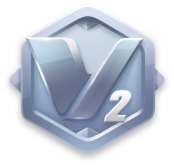
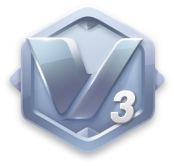
fix: 修复服务器信息显示和VIP等级图片逻辑
修复产品中心、首页和服务器页面中服务器信息的显示问题，统一使用serverInfo对象中的字段
修正VIP等级图片显示逻辑，使用nextVipLevel代替vipLevel
优化算力服务器数据获取逻辑，提取为单独函数
移除服务器页面中冗余的显示字段和间距

Changed region(s): [[0.6034, 0.5422, 0.8046, 0.753]]

diff --git a/src/pages/server/index.vue b/src/pages/server/index.vue
@@ -226,12 +226,8 @@ function changeDynamicIncome(e) {
         </view>
 
         <view class="mt-[5px] text-[12px] text-[#94999A]">
-          算力值 {{ item.dynamicMax * item.powerRate }}
-          <span class="text-[#f7ca54]">({{ item.dynamicMax }} KDK)</span>
+          算力值 {{ item.fixedPower }}
         </view>
-        <!-- <view class="mt-[5px] text-[12px] text-[#94999A]">
-          收利率 {{ item.priceRate * 100 }}%
-        </view> -->
         <view class="mt-[5px]">
           <view class="mr-[8px] text-[12px] text-[#D73A3C] font-bold">
             <div class="">
@@ -320,7 +316,7 @@ function changeDynamicIncome(e) {
             {{ currentItem.serverName }}
           </view>
           <div class="mt-[10px] flex items-center justify-center">
-            <view class="mr-[10px] mt-[5px] w-1/2 text-[12px] text-[#94999A]">
+            <view class="mt-[5px] w-1/2 text-[12px] text-[#94999A]">
               购买下限 {{ currentItem.dynamicMin }} (KDK)
             </view>
             <view class="mt-[5px] w-1/2 text-[12px] text-[#94999A]">
@@ -328,7 +324,7 @@ function changeDynamicIncome(e) {
             </view>
           </div>
           <div class="mt-[5px] flex items-center justify-center">
-            <view class="mr-[10px] mt-[5px] w-1/2 text-[12px] text-[#94999A]">
+            <view class="mt-[5px] w-1/2 text-[12px] text-[#94999A]">
               算力值 {{ currentItem.fixedPower }}
             </view>
             <view class="mt-[5px] w-1/2 text-[12px] text-[#94999A]">
@@ -363,10 +359,7 @@ function changeDynamicIncome(e) {
               </template>
             </up-input>
           </div>
-          <div class="mt-[5px]">
-            <div class="mt-[5px] text-[12px] text-[#94999A]">
-              预估算力: {{ dynamicData.power || 0 }}
-            </div>
+          <div class="mt-[20px]">
             <div class="mt-[5px] text-[12px] text-[#94999A]">
               预估收益: {{ dynamicData.income || 0 }} KDK
             </div>

diff --git a/src/pages/training/index.vue b/src/pages/training/index.vue
@@ -157,28 +157,28 @@ onMounted(async () => {
         />
         <view class="flex flex-col items-center justify-center">
           <u-image
-            v-if="vipInfoData.vipLevel == 1"
+            v-if="vipInfoData.nextVipLevel == 1"
             src="/static/level/level_0.png"
             width="60"
             height="60"
             alt=""
           />
           <u-image
-            v-if="vipInfoData.vipLevel == 2"
+            v-if="vipInfoData.nextVipLevel == 2"
             src="/static/level/level_1.png"
             width="60"
             height="60"
             alt=""
           />
           <u-image
-            v-if="vipInfoData.vipLevel == 3"
+            v-if="vipInfoData.nextVipLevel == 3"
             src="/static/level/level_2.png"
             width="60"
             height="60"
             alt=""
           />
           <u-image
-            v-if="vipInfoData.vipLevel == 4"
+            v-if="vipInfoData.nextVipLevel == 4"
             src="/static/level/level_3.png"
             width="60"
             height="60"
@@ -257,7 +257,7 @@ onMounted(async () => {
       <view class="mt-[20px] text-[16px] font-bold">
         当前费率
         <span class="text-[40px] text-[#FFEE00]">{{
-          vipInfoData.currentPremium * 100
+          (vipInfoData.currentPremium - vipInfoData.decayedNum) * 100
         }}</span>
         %
       </view>
@@ -283,7 +283,7 @@ onMounted(async () => {
           trail-color="#ebedf0"
           :percent="modelVale"
         >
-          <text>{{ modelVale }}天</text>
+          <text>{{ vipInfoData.needDays }}天</text>
         </l-circle>
         <!-- <lime-circle v-model:current="modelVale" :percent="100">
           <text>{{ modelVale }}%</text>

diff --git a/src/pages/index/components/indexTop.vue b/src/pages/index/components/indexTop.vue
@@ -29,11 +29,8 @@ const notifyTitle = ref('')
 const conuntToKdk = ref(0)
 onMounted(async () => {
   await getTask()
-  const getPowerOrdersRes = await getPowerOrders({
-    status: 0,
-  })
+  await getPowerOrdersData()
   conuntToKdk.value = userInfo.value.kdkBalance
-  powerOrdersData.value = getPowerOrdersRes.content
   if (powerOrdersData.value.length === 0) {
     notifyTitle.value = '当前没有算力服务器,请前往购买后完全任务获取奖励'
   }
@@ -43,11 +40,18 @@ async function getTask() {
   const getChatTaskRes = await getChatTask()
   taskData.value = getChatTaskRes
 }
+async function getPowerOrdersData() {
+  const getPowerOrdersRes = await getPowerOrders({
+    status: 0,
+  })
+  powerOrdersData.value = getPowerOrdersRes.content
+}
 async function fetchCountToKdk() {
   const userStore = useUserStore()
   await userStore.fetchUserInfo()
   conuntToKdk.value = userInfo.value.kdkBalance
   upCountToKdk.value.reStart()
+  await getPowerOrdersData()
   await getTask()
   if (taskData.value.usedPower > 0) {
     notifyTitle.value = '任务开始,再次增加服务器明日才开始计算收益'
@@ -154,7 +158,7 @@ defineExpose({
                     {{ item.usedPower }}/{{ item.power }}
                   </view>
                   <view class="mt-[5px]">
-                    {{ item.serverName }}
+                    {{ item.serverInfo.serverName }}
                   </view>
                 </view>
               </template>

diff --git a/src/pages/productCenter/index.vue b/src/pages/productCenter/index.vue
@@ -110,7 +110,7 @@ async function redemption(item) {
             </view>
             <view class="flex items-center text-[10px] text-[#94999A]">
               <view class="mr-[5px]">
-                服务器名称:
+                服务器名称: {{ item.serverInfo.serverName }}
               </view>
               <view>{{ item.serverName }}</view>
             </view>
@@ -180,7 +180,7 @@ async function redemption(item) {
 
               <view class="bg1 mt-[15px] h-[80px] w-[48%]">
                 <view class="text-[24px] font-700">
-                  {{ item.priceRate }}%
+                  {{ item.serverInfo.priceRate }}%
                 </view>
                 <view class="mt-[10px] text-[12px] text-[#94999A]">
                   每日返还率

diff --git a/src/utils/util.ts b/src/utils/util.ts
@@ -45,7 +45,7 @@ export function openExternalUrl(url, options = {}) {
   window.open(url, options.target || '_blank')
   // #endif
   // App 端（需依赖 5+ API）
-  // #ifdef APP - PLUS
+  // #ifdef APP-PLUS
   plus.runtime.openURL(url, (res) => {
     uni.showToast({
       title: '打开失败，请检查链接',

diff --git a/src/pages/funds/index.vue b/src/pages/funds/index.vue
@@ -36,6 +36,7 @@ const tabData = reactive({
 })
 onMounted(() => {
   commonStore.fetchTokenPrice()
+  userStore.fetchUserInfo()
 })
 const recordRef = ref(null)
 function handleTabClick(item) {
